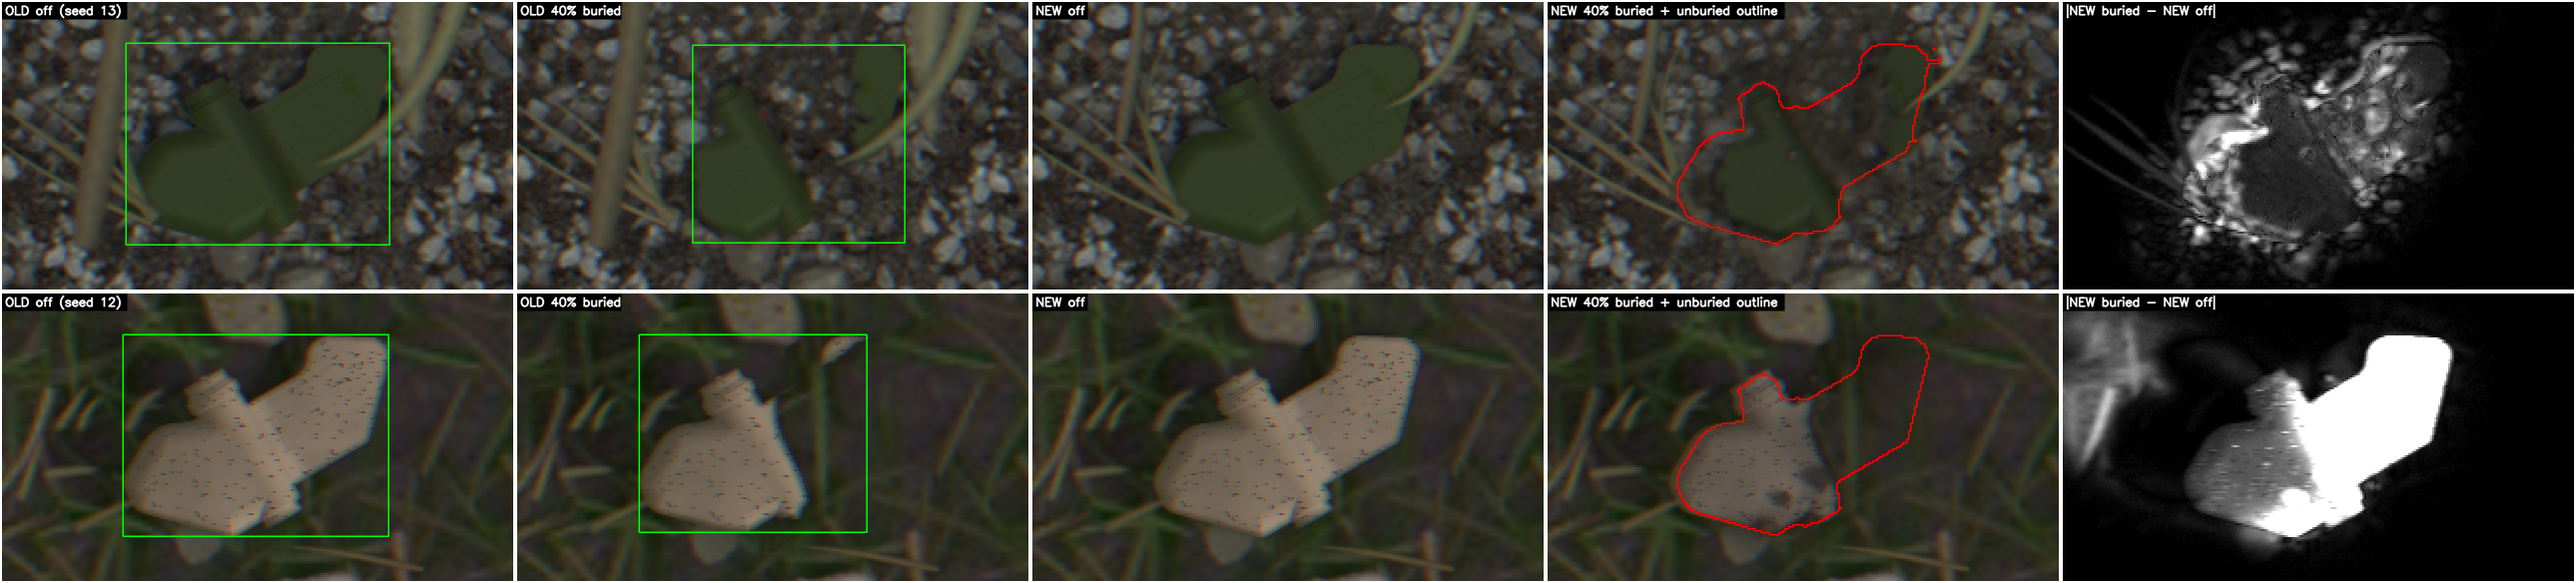
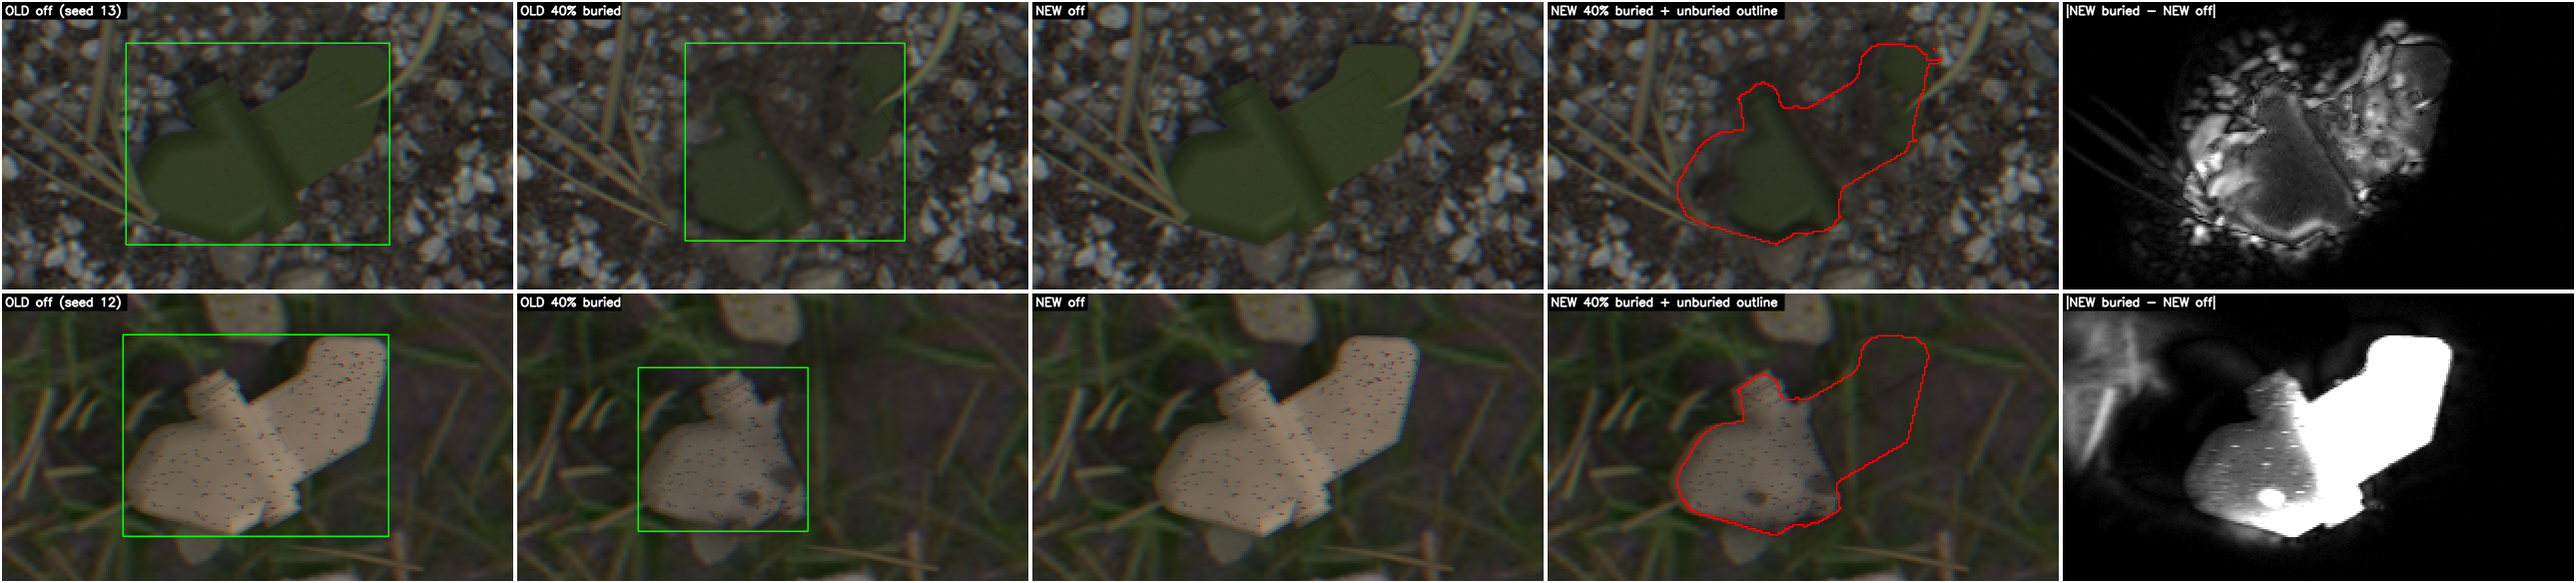
feat: irregular burial soil line with seamless soil blending

diff --git a/DatasetGenerator/objects.py b/DatasetGenerator/objects.py
@@ -424,9 +424,13 @@ class Mine:
             sB = burial_fx.strength_scale(self.meta["burial"]["fraction"])
             rngb = np.random.default_rng(bp["seed"])
             buried = np.clip(self.alpha_full - self.alpha, 0, 1)
+            ground = local
             if cfg.BURIAL_DISTURBED_SOIL:   # turned soil on the ground, under shadow and mine
                 prgb, pa = burial_fx.disturbed_patch(self.alpha_full, buried, local, L, bp, sB, rngb, cfg)
                 fx.over(img, prgb, pa, self.x, self.y)
+            # ground as it now looks under the mine (incl. turned soil): the soil cover, ridge and clods take their
+            # colour / texture from it, so the covered part of the mine merges with the surrounding ground
+            ground = fx.crop_padded(img, self.x, self.y, h, w)
         if cfg.SHADOWS:
             self._draw_shadow(img)
         rgb_pm, alpha = self.rgb_pm, self.alpha
@@ -439,28 +443,36 @@ class Mine:
             self.visible = alpha.copy()
             return
         p = soil.sample_burial_overlay_params(self.sub(6), cfg)
+        b = self.meta["burial"]
+        p.update(wander=b.get("wander", 0.0), wander_seed=b.get("wander_seed", 0),
+                 wander_scales=cfg.BURIAL_WANDER_SCALES, wander_weights=cfg.BURIAL_WANDER_WEIGHTS)
         if cfg.BURIAL_BERM:
             p["berm_opacity"] *= 0.5            # the shaded ridge below takes over most of the lip
         full = float((self.alpha_full > 0.5).sum())
-        for _ in range(4):  # the rough soil line covers a bit more: shrink it until the cap holds
-            s_rgb, s_a = soil.burial_overlay(alpha, self.alpha_full, self.r["height"], local, L, p)
-            vis = alpha * (1.0 - s_a)
-            achieved = float(1 - (vis > 0.5).sum() / max(full, 1))
+        def soil_and_cleanup(p_):
+            """soil cover + removal of slivers / islands it leaves (covered with ground-coloured soil)."""
+            s_rgb_, s_a_ = soil.burial_overlay(alpha, self.alpha_full, self.r["height"], ground, L, p_)
+            vis_ = alpha * (1.0 - s_a_)
+            keep_ = burial_fx.clean_mask(vis_ > 0.5, cfg.BURIAL_MIN_FRAGMENT_FRAC * full, self._open_r(L))
+            drop_ = ((alpha > 0.02) & (cv2.dilate(keep_, burial_fx.K3) == 0)).astype(np.float32)
+            return s_rgb_, s_a_, drop_
+
+        for _ in range(5):  # the irregular soil line covers a bit more: shrink it until the cap holds
+            s_rgb, s_a, drop = soil_and_cleanup(p)
+            achieved = float(1 - (alpha * (1 - np.maximum(s_a, drop)) > 0.5).sum() / max(full, 1))
             if achieved <= cfg.BURIAL_MAX_FRACTION:
                 break
             p["edge_noise"] *= 0.5
             p["berm_width_px"] *= 0.6
+            p["wander"] *= 0.6
         else:  # still over the cap: keep soil off the visible mine (only the clip itself hides it)
+            s_rgb, s_a, drop = soil_and_cleanup(p)
             s_a = np.where(alpha > 0.5, 0.0, s_a).astype(np.float32)
             s_rgb = s_rgb * (s_a > 0)[..., None]
-        # what the soil line leaves visible must not contain slivers / islands either: cover them with soil
-        vis = alpha * (1.0 - s_a)
         stages = {"clip": float(1 - (alpha > 0.5).sum() / max(full, 1)),
-                  "soil_line": float(1 - (vis > 0.5).sum() / max(full, 1))}
-        keep = burial_fx.clean_mask(vis > 0.5, cfg.BURIAL_MIN_FRAGMENT_FRAC * full, self._open_r(L))
-        drop = ((alpha > 0.02) & (cv2.dilate(keep, burial_fx.K3) == 0)).astype(np.float32)
+                  "soil_line": float(1 - (alpha * (1.0 - s_a) > 0.5).sum() / max(full, 1))}
         if drop.any():
-            soil_col = fx.gblur(local, 1.0) * p["berm_darken"]
+            soil_col = fx.gblur(ground, 1.0)
             s_rgb = s_rgb * (1 - drop)[..., None] + soil_col * drop[..., None]
             s_a = np.maximum(s_a, drop)
         vis = alpha * (1.0 - s_a)
@@ -468,44 +480,50 @@ class Mine:
         core = np.maximum(np.clip(self.alpha_full - alpha, 0, 1), s_a)
         # the ridge / occlusion gradient follow the CLIP line (visible mine against the part cut away by the soil
         # plane, incl. dropped fragments); the noisy soil cover over low rims only roughens the edge
+        # plus the soil cover connected to it (the irregular soil edge); isolated cover over low rims is ignored
         clip_core = np.maximum(np.clip(self.alpha_full - alpha, 0, 1), drop)
+        n_cc, lab = cv2.connectedComponents((core > 0.5).astype(np.uint8), connectivity=8)
+        seeds = np.unique(lab[cv2.dilate((clip_core > 0.5).astype(np.uint8), burial_fx.K3) > 0])
+        seeds = seeds[seeds > 0]
+        clip_core = np.maximum(clip_core, np.isin(lab, seeds).astype(np.float32))
         line, dist = burial_fx.soil_line(vis, clip_core)
         if cfg.BURIAL_DIRTY_EXPOSED:
-            rgb_pm = burial_fx.dirty_exposed(rgb_pm, alpha, dist, local, L, bp, sB, rngb, cfg)
+            rgb_pm = burial_fx.dirty_exposed(rgb_pm, alpha, dist, ground, L, bp, sB, rngb, cfg)
         fx.over(img, rgb_pm, alpha, self.x, self.y)
         fx.over(img, s_rgb, s_a, self.x, self.y)
         cover = np.zeros_like(alpha)
         if cfg.BURIAL_BERM and line.any():
-            r_rgb, r_a, r_sh = burial_fx.berm_ridge(dist, core, vis, local, L, sc["sun"], bp, sB, rngb, cfg)
+            r_rgb, r_a, r_sh = burial_fx.berm_ridge(dist, core, vis, ground, L, sc["sun"], bp, sB, rngb, cfg)
             fx.darken(img, fx.shadow_factor(r_sh, sc["sun"]["shadow_strength"], sc["sun"]["shadow_tint"]), self.x, self.y)
             fx.over(img, r_rgb, r_a, self.x, self.y)
             cover = np.maximum(cover, r_a)
         if cfg.BURIAL_CLODS and line.any():
-            for c_rgb, c_a, cx, cy, f, pad in burial_fx.clods(cfg, line, L, sc["sun"], bp, sB, rngb, local):
+            for c_rgb, c_a, cx, cy, f, pad in burial_fx.clods(cfg, line, L, sc["sun"], bp, sB, rngb, ground):
                 if cfg.SHADOWS:
                     fx.darken(img, f, self.x + cx - pad, self.y + cy - pad)
                 fx.over(img, c_rgb, c_a, self.x + cx, self.y + cy)
                 tmp = np.zeros_like(alpha)
                 fx.accumulate_alpha(tmp, c_a, cx, cy)
                 cover = np.maximum(cover, tmp)
-        vis_final = vis * (1.0 - cover)
-        achieved = float(1 - (vis_final > 0.5).sum() / max(full, 1))
+        def final_mask(f):
+            """visible mask with ridge / clods counted at weight f, minus the tiny bits they split off."""
+            vf = vis * (1.0 - f * cover)
+            kp = burial_fx.clean_mask(vf > 0.5, cfg.BURIAL_MIN_FRAGMENT_FRAC * full, cfg.BURIAL_OPEN_PX)
+            vf = vf * cv2.dilate(kp, burial_fx.K3).astype(np.float32)
+            return vf, float(1 - (vf > 0.5).sum() / max(full, 1))
+
+        vis_final, achieved = final_mask(1.0)
         if achieved > cfg.BURIAL_MAX_FRACTION:
             # ridge / clods would hide too much: they are drawn as they are, but for the visible mask (label) they
             # count with the largest weight f that keeps the cap (bisection), i.e. as partly see-through cover
             lo, hi = 0.0, 1.0
             for _ in range(8):
                 f = (lo + hi) / 2
-                if 1 - (vis * (1 - f * cover) > 0.5).sum() / max(full, 1) > cfg.BURIAL_MAX_FRACTION:
+                if final_mask(f)[1] > cfg.BURIAL_MAX_FRACTION:
                     hi = f
                 else:
                     lo = f
-            vis_final = vis * (1.0 - lo * cover)
-            achieved = float(1 - (vis_final > 0.5).sum() / max(full, 1))
-        # ridge / clods can split off tiny bits of the visible mask: the label mask drops them like any fragment
-        keep = burial_fx.clean_mask(vis_final > 0.5, cfg.BURIAL_MIN_FRAGMENT_FRAC * full, cfg.BURIAL_OPEN_PX)
-        vis_final = vis_final * cv2.dilate(keep, burial_fx.K3).astype(np.float32)
-        achieved = float(1 - (vis_final > 0.5).sum() / max(full, 1))
+            vis_final, achieved = final_mask(lo)
         stages["final"] = achieved
         self.meta["burial"]["hidden_by_stage"] = stages
         self.meta["burial"]["cap_exceeded"] = bool(achieved > cfg.BURIAL_MAX_FRACTION + 0.01)

diff --git a/DatasetGenerator/features/soil.py b/DatasetGenerator/features/soil.py
@@ -105,7 +105,14 @@ def burial_overlay(alpha, alpha_full, height, local_bg, length_px, p):
     hgt = np.nan_to_num(height, nan=1.0)
     amp = p["edge_noise"]
     n1 = fx.fbm(h, w, max(2.0, 0.08 * L), rng)
-    cover = np.clip((amp * n1 - hgt) / (0.25 * amp + 1e-6), 0, 1) * (alpha > 0)
+    A = float(p.get("wander", 0.0))
+    surf = 0.0
+    if A > 0:   # soil surface = nominal plane + low-frequency wander + mid / high-frequency bays and lumps
+        rw = np.random.default_rng(p.get("wander_seed", 0))
+        wf = sum(wt * (2 * fx.fbm(h, w, max(2.0, sc * L), rw, octaves=2) - 1)
+                 for sc, wt in zip(p.get("wander_scales", (0.35, 0.12, 0.04)), p.get("wander_weights", (0.6, 0.3, 0.1))))
+        surf = A * wf
+    cover = np.clip((surf + amp * n1 - hgt) / (0.25 * amp + 0.1 * A + 1e-6), 0, 1) * (alpha > 0)
     buried = np.clip(alpha_full - alpha, 0, 1)
     core = ((buried > 0.5) | (cover > 0.5)).astype(np.uint8)
     vis = ((alpha > 0.5) & (cover <= 0.5)).astype(np.uint8)
@@ -122,8 +129,13 @@ def burial_overlay(alpha, alpha_full, height, local_bg, length_px, p):
     else:
         berm = np.zeros((h, w), np.float32)
     a = np.maximum(cover, berm).astype(np.float32)
-    soil = fx.gblur(local_bg, 1.0) * p["berm_darken"] * (0.85 + 0.3 * fx.fbm(h, w, 2.0, rng, octaves=3))[..., None]
-    return (soil * a[..., None]).astype(np.float32), a
+    # cover takes the ground's own colour / texture (seamless with the surrounding soil); only the lip is darker
+    tex = (0.9 + 0.2 * fx.fbm(h, w, 2.0, rng, octaves=3))[..., None]
+    base = fx.gblur(local_bg, 0.8)
+    wb = (berm / np.maximum(a, 1e-4))[..., None]
+    soil = base * tex * (1 - wb + wb * p["berm_darken"])
+    a = fx.gblur(a, 0.6)                                    # soft feathered edge, no hard seam
+    return (soil * a[..., None]).astype(np.float32), a.astype(np.float32)
 
 
 # ----------------------------------------------------------------------------------------------- ground dirt

diff --git a/DatasetGenerator/features/mesh.py b/DatasetGenerator/features/mesh.py
@@ -89,9 +89,15 @@ def sample_burial(rng, cp):
     """-> dict(fraction, tilt, direction) or None (not buried). BURIAL_FRACTION is capped at BURIAL_MAX_FRACTION.
     Always 4 draws."""
     u, f, t, d = rng.random(), rng.uniform(*cp.BURIAL_FRACTION), rng.uniform(*cp.BURIAL_TILT), rng.uniform(0, 360)
+    wv, ws = rng.random(), int(rng.integers(2 ** 31))     # soil-line wander amplitude + noise seed (always drawn)
     if not (cp.BURIAL and cp.MESH_MINES) or u >= cp.BURIAL_PROB:
         return None
-    return {"fraction": float(min(f, cp.BURIAL_MAX_FRACTION)), "tilt": float(t), "direction": float(d)}
+    f = float(min(f, cp.BURIAL_MAX_FRACTION))
+    wander = 0.0
+    if cp.BURIAL_IRREGULAR_LINE:   # amplitude grows with the buried fraction (small burial = gentler line)
+        lo, hi = cp.BURIAL_LINE_WANDER
+        wander = float((lo + (hi - lo) * wv) * np.clip(np.sqrt(f / 0.4), 0.5, 1.2))
+    return {"fraction": f, "tilt": float(t), "direction": float(d), "wander": wander, "wander_seed": ws}
 
 
 def sample_specular(rng, cp):
@@ -214,7 +220,9 @@ def render_mine(cp, pose, ppu, sun_az, sun_el, albedo, shadow_strength, burial=N
         info.update(burial_target=float(burial_frac), plane_tilt=float(np.rad2deg(tilt)),
                     plane_dir=float(np.rad2deg(phi)))
         tri_full = tri
-        tri, parent = clip_triangles(tri, parent, n_pl, c_pl)
+        # irregular soil line: clip a little deeper (by the wander amplitude) and let the noisy soil surface of
+        # soil.burial_overlay (nominal plane +- wander) decide what is covered, so the edge is not a straight cut
+        tri, parent = clip_triangles(tri, parent, n_pl, c_pl - burial.get("wander", 0.0))
     else:
         tri_full = tri
 

diff --git a/DatasetGenerator/controlPanel.py b/DatasetGenerator/controlPanel.py
@@ -244,6 +244,10 @@ SOIL_EDGE_NOISE = (0.01, 0.035)     # soil-line roughness, mesh units (mine leng
 BERM_WIDTH_PX = (2.0, 6.0)          # soil lip / berm along the buried edge
 BERM_OPACITY = (0.4, 0.85)
 BERM_DARKEN = (0.75, 0.95)          # disturbed soil is a little darker / damper than the surface
+BURIAL_IRREGULAR_LINE = True        # organic soil line instead of a straight clip edge: the soil surface is the
+BURIAL_LINE_WANDER = (0.015, 0.04)  # nominal plane +- this (mesh units, mine length = 1; x sqrt(fraction / 0.4))
+BURIAL_WANDER_SCALES = (0.35, 0.12, 0.04)   # fBm feature sizes (x mine length): low-frequency wander, bays, lumps
+BURIAL_WANDER_WEIGHTS = (0.6, 0.3, 0.1)
 BURIAL_MIN_FRAGMENT_FRAC = 0.06     # after clipping: visible islands smaller than this x full area are dropped ...
 BURIAL_OPEN_PX = 1                  # ... and structures thinner than ~2 r px removed (morphological opening, radius
 BURIAL_OPEN_FRAC = 0.025            #     r = max(BURIAL_OPEN_PX, BURIAL_OPEN_FRAC x mine length); ~4 px at 150 px)

diff --git a/DatasetGenerator/features/burial_fx.py b/DatasetGenerator/features/burial_fx.py
@@ -135,8 +135,10 @@ def berm_ridge(line_dist, core, vis, local, L, sun, p, s, rng, cfg):
     sd = _sun_dir_img(sun["azimuth"])
     shade = -(gx * sd[0] + gy * sd[1]) * (width * 1.5)            # >0 on the sunlit slope
     k = cfg.BERM_RIDGE_SHADE * sun["shadow_strength"] / 0.45
-    shade = np.clip(1 + k * np.clip(shade, -1, 1), 0.6, 1.3)
-    base = soil_colour(fx.gblur(local, max(1.0, 0.05 * L)), cfg) * 0.95 * (0.8 + 0.4 * clumps)[..., None]
+    shade = np.clip(1 + k * np.clip(shade, -1, 1), 0.7, 1.15)   # no bright outline on light ground
+    g = fx.gblur(local, max(1.0, 0.04 * L))
+    # turned soil: same tone as the disturbed patch (darker than the undisturbed surface), clumpy texture
+    base = (0.6 * g + 0.4 * soil_colour(g, cfg)) * p["patch_darken"] * (0.85 + 0.3 * clumps)[..., None]
     rgb = base * shade[..., None]
     # cast shadow of the ridge (height ~ ridge_height_frac x L) away from the sun
     hpx = p["ridge_height_frac"] * L * min(1.0, s)

diff --git a/scripts/burial_realism_figure.py b/scripts/burial_realism_figure.py
@@ -23,7 +23,7 @@ BASE = dict(n_mines=1, mine_positions=[(960, 540)], mine_scale=0.35, psf_sigma=0
 BUR = dict(burial_prob=1.0, burial_fraction=0.4, burial_tilt=15)
 OLD = dict(burial_berm=False, burial_disturbed_soil=False, burial_clods=False, burial_dirty_exposed=False,
            blade_soil_lift=False, blade_emerge=False, burial_min_fragment_frac=0.0, burial_open_px=0,
-           burial_open_frac=0.0, burial_clip_share=1.0)
+           burial_open_frac=0.0, burial_clip_share=1.0, burial_irregular_line=False)
 CASES = [("gravel", 1, dict(mine_pose=(3, -2, 30))),
          ("dark grass", 12, dict(mine_pose=(3, -2, 30))),
          ("light dry grass", 8, dict(mine_pose=(4, 3, 120))),

diff --git a/docs/CHANGES.md b/docs/CHANGES.md
@@ -160,6 +160,19 @@ point-spread function (camera blur kernel); **HSV** = hue (deg), saturation, val
     drawn but count for the label mask with the largest weight that keeps the cap (bisection). Sidecar:
     `burial.hidden_by_stage` (clip, soil_line, fragments, final), `burial.realism` (all sampled cue parameters),
     `burial.scale`, `burial.cap_exceeded`. 50-image sample: 63 buried mines, max hidden 0.50, cap never exceeded.
+- **Organic soil line (third round of user feedback: "the burial line is too straight")** (`BURIAL_IRREGULAR_LINE`):
+  the soil surface is no longer the clip plane itself but the plane +- a wander of U(`BURIAL_LINE_WANDER`=0.015-0.04)
+  mesh units x sqrt(fraction / 0.4) (clipped to 0.5-1.2), built from three fBm layers (`BURIAL_WANDER_SCALES` =
+  0.35 / 0.12 / 0.04 x mine length, `BURIAL_WANDER_WEIGHTS` = 0.6 / 0.3 / 0.1: slow wander, bays, small lumps) plus
+  the existing fine edge noise. The 3D clip runs at the lower envelope (plane - wander) and the per-pixel soil
+  cover decides the rest, so the edge meanders with bays and lumps. The ridge, the clods, the occlusion gradient
+  and the blade lift follow this irregular edge (the clip boundary plus the soil cover connected to it; isolated
+  cover over low rims elsewhere is ignored). Blending: the soil cover, ridge, clods and dirt now take their colour
+  and texture from the ground as it looks under the mine after the turned-soil patch is drawn (the cover uses the
+  ground colour itself, only the lip is darker, 0.6 px feathered alpha; the ridge uses the turned-soil tone), so the
+  covered part merges with the surrounding ground without a seam. The 50% cap check now includes the fragment
+  clean-up and the final label clean-up (50-image sample: 63 buried mines, max hidden 0.50, cap never exceeded);
+  `tests/test_burial.py` passes (no slivers / islands, anchor fixed).
 - **Blades over buried mines** (`BLADE_SOIL_LIFT`, `BLADE_EMERGE`): every over-layer blade / tuft / wisp that
   crosses a buried mine's soil-line zone is warped (cv2.remap with a smooth weight around the clip line): its pixels
   are lifted by up to ~4% of the mine length (1.5-6 px) towards the sun side (away from the shadow direction), a soft
@@ -285,10 +298,12 @@ saved_look = jpeg_roundtrip(rgb, meta["post"]["jpeg_quality"])
   `burial_fraction`, `psf_sigma`, `exposure`, ...
 - Assets / debris toggles: `grass_blades`, `blades_under` / `blades_over` (count ranges, e.g. (0, 0)),
   `burial_berm`, `burial_disturbed_soil`, `burial_clods`, `burial_dirty_exposed`, `blade_soil_lift`, `blade_emerge`,
+  `burial_irregular_line`, `burial_line_wander`, `burial_wander_scales`, `burial_wander_weights`,
   `burial_min_fragment_frac`, `burial_open_frac`, `burial_open_px`, `burial_clip_share`, `berm_ridge_width_frac`,
   `berm_ridge_shade`, `disturbed_radius_frac`, `disturbed_opacity`, `burial_clod_count`, `exposed_ao_strength`,
   `exposed_film`, `burial_soil_rgb` (old-style burial for comparisons: set the four BURIAL_* cue flags and the two
-  blade flags False, `burial_min_fragment_frac=0`, `burial_open_px=0`, `burial_open_frac=0`, `burial_clip_share=1`),
+  blade flags False, `burial_irregular_line=False`, `burial_min_fragment_frac=0`, `burial_open_px=0`,
+  `burial_open_frac=0`, `burial_clip_share=1`),
   `blades_over_on_mine` (probability per mine, 1.0 = every mine), `blades_on_mine_count`, `dust_strength` (scalar
   fixes it; or a (low, mode, high) triangle),
   `blade_size_mm`, `blade_width_mm`, `blade_colour_adapt`, `blade_fresh_prob`, `blade_max_fresh_per_image`,
@@ -316,7 +331,7 @@ saved_look = jpeg_roundtrip(rgb, meta["post"]["jpeg_quality"])
 | v1 (original, pygame + moderngl) | 0.49 |
 | v2, all features (before new assets / blades) | 0.64 (1.3x v1) |
 | v2, all features incl. blades, new assets, rock seating, leaf clumps, blades on mines, audit filter | 0.93 (1.9x v1) |
-| v2, + burial soil-displacement cues | 1.01 (2.1x v1) |
+| v2, + burial soil-displacement cues, organic soil line | 1.04 (2.1x v1) |
 | v2 engine, `--v1` | 0.33 |
 `--workers N` parallelises (50 images with 4 workers: 0.32 s / image wall clock). The extra time is mostly the
 on-the-fly blades (capped at 3 per image), ~100 more debris elements with shadows, and the soft dirt grains.
